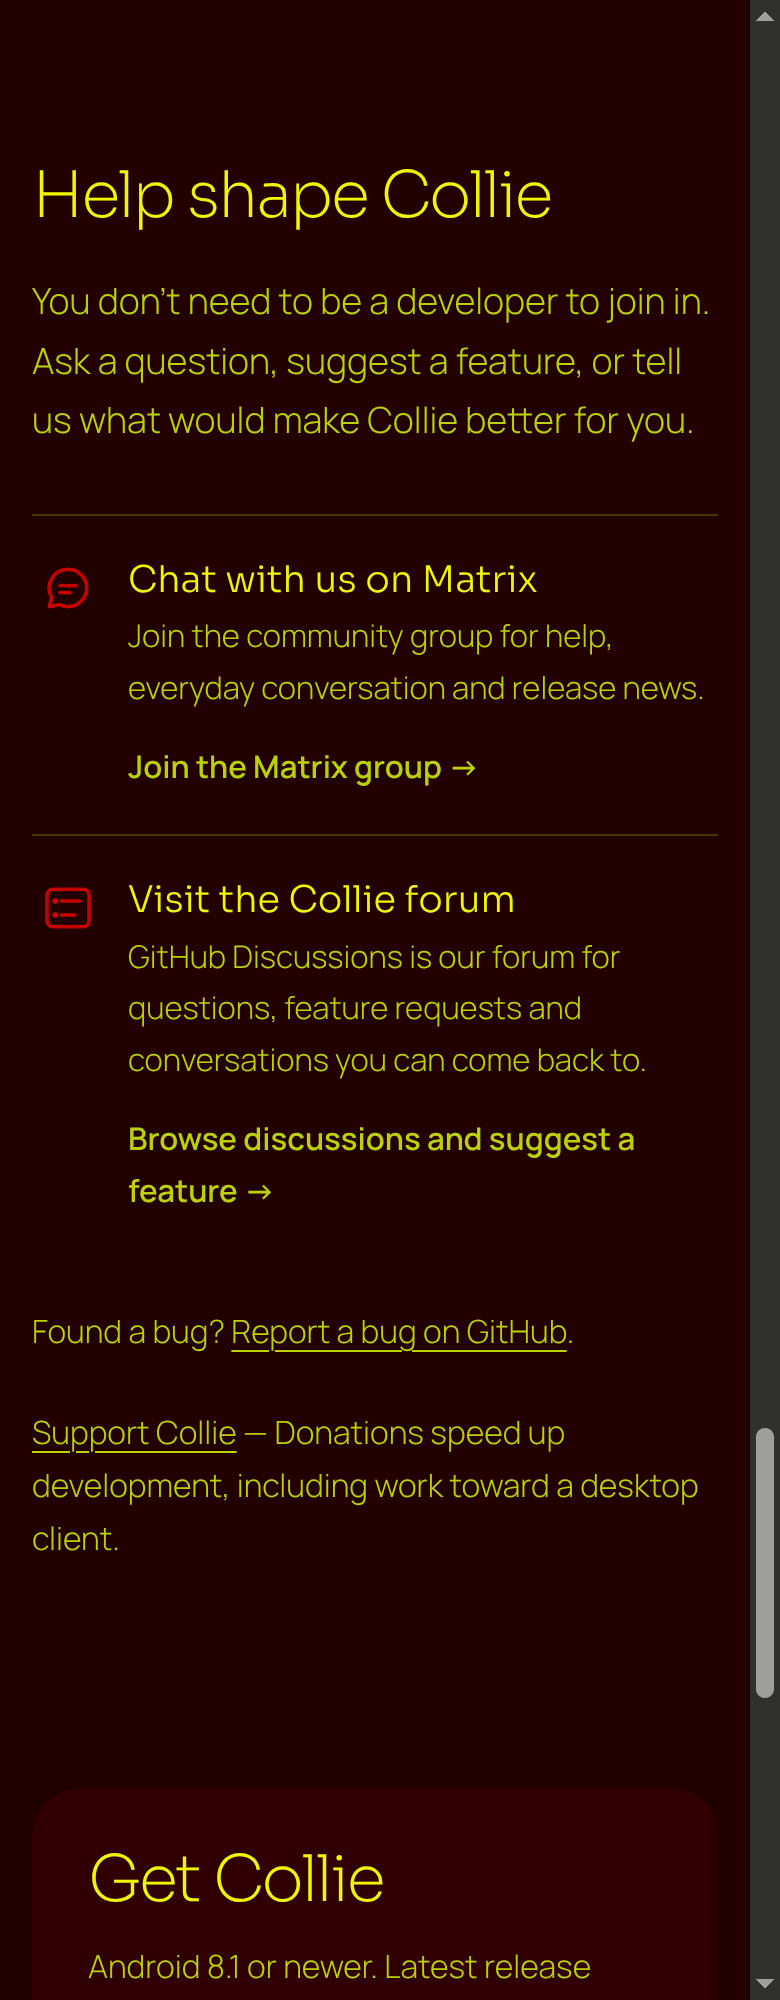
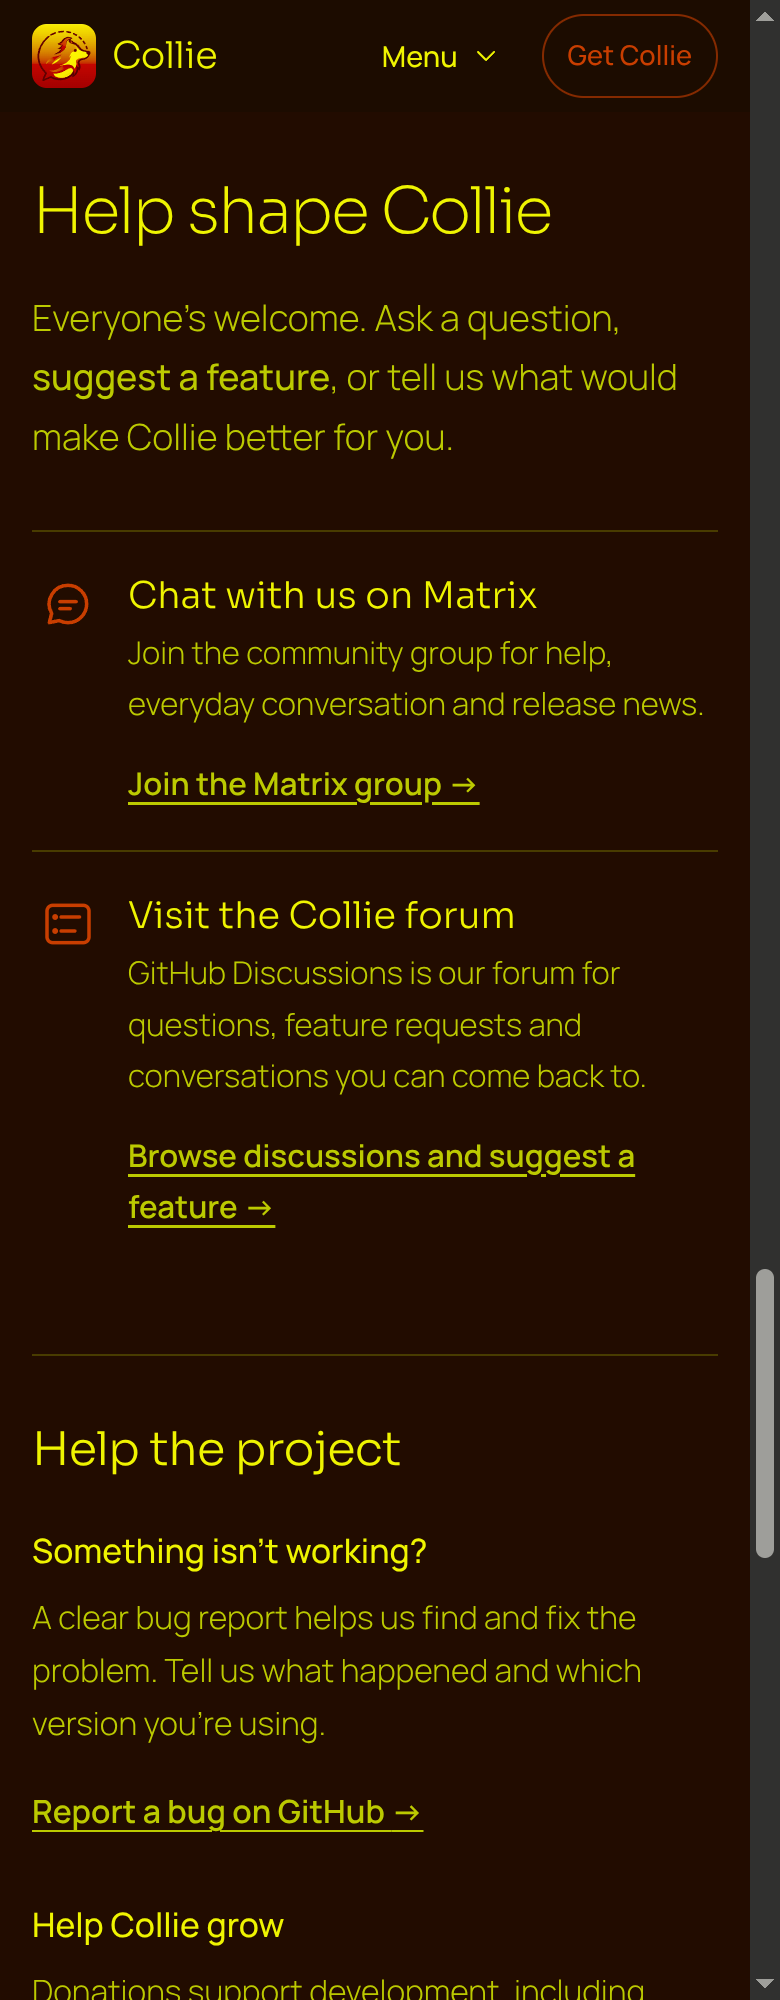
Record the final website review views and fresh capture provenance
Replace obsolete review pixels with current hero, feature, roadmap and menu screens. Include measured layout and contrast checks, native capture provenance and the compact independent-review context.

Layer: website

diff --git a/docs/screenshots/pr-95/README.md b/docs/screenshots/pr-95/README.md
@@ -1,0 +1,117 @@
+# Current Collie website review set
+
+These are actual T3 browser captures from the live static build at `http://localhost:8879/`, using an owned incognito tab. They replace the earlier images in this directory. Review the commit containing this document as one stable candidate; implementation source is `9e4cddf931c6`, with the fresh native assets in `555fff83a6b7e8f5b8de89f522859f250a166b5f`. No score is supplied by the implementation owner.
+
+## Start with these views
+
+| View | Screenshot | CSS viewport |
+| --- | --- | --- |
+| Hero and fresh encryption screen | [desktop-light.png](desktop-light.png) | 1280 × 800 |
+| Foreground phone on mobile | [mobile-light.png](mobile-light.png) | 390 × 844, scrolled to phones |
+| Compact feature grid | [features-desktop-light.png](features-desktop-light.png) | 1280 × 1000 |
+| Mobile features | [features-mobile-light.png](features-mobile-light.png) | 390 × 1100 |
+| Curated upcoming plans | [upcoming-desktop-light.png](upcoming-desktop-light.png) | 1280 × 900 |
+| Upcoming plans in dark mode | [upcoming-mobile-dark.png](upcoming-mobile-dark.png) | 390 × 1100 |
+| Persistent menu, closed | [menu-mobile-closed.png](menu-mobile-closed.png) | 390 × 844 |
+| Persistent menu, open | [menu-mobile-open.png](menu-mobile-open.png) | 390 × 844 |
+
+All captures use device pixel ratio 2; PNG dimensions are twice the CSS viewport dimensions. Supporting captures cover the consolidated introduction ([desktop](about-desktop.png), [mobile](about-mobile.png)), community ([desktop light](community-desktop-light.png), [mobile dark](community-mobile-dark.png), [320px dark](community-narrow-dark.png)), dark hero ([desktop](desktop-dark.png), [mobile phones](mobile-dark.png)), and the [actual Obtainium handoff](obtainium-desktop-light.png).
+
+The browser capture pipeline can shift orange into pink despite normal computed CSS colors; this discrepancy was observed in exported PNG pixels as well as the inline viewer. Do not adjust source colors to compensate. Layout, reading order, content, overlap and navigation remain assessable. The native PNG itself has the app's actual orange pixels. Contrast values below come from computed CSS, not color sampling of these browser images.
+
+## Product requirements to preserve
+
+Collie is an Android messenger for ordinary Signal users. Explain familiar messaging and extra protection on the phone; do not pitch readable patches as a benefit to everyone. Existing factual copy is mostly approved. People skim, so grouping, type hierarchy, emphasis and actionable labels should communicate the story before paragraph reading. Preserve the bark, lichen and orange identity, Manrope and Sora, real screenshots and the logo-derived dashed ring. Decorative radial-gradient blobs were explicitly rejected and removed.
+
+The introduction immediately below the hero consolidates Signal compatibility and Signal/Molly foundations. A text-only rearrangement and a competing provenance card did not satisfy the request for informational clarity. The current open composition puts its topic heading on the left, benefit first on the right, then quieter foundations and one optional source/security disclosure. Mobile follows that DOM order. Do not reintroduce Side by side, package-name, or one-account/two-app explanations. The legal disclaimer stays unchanged in the footer.
+
+Matrix chat and the GitHub Discussions forum remain prominent entry points, with different chat-bubble and thread-list icons. Their actions are underlined. Bug reports and donations remain in the separate Help the project group. Keep selective bold and italic emphasis. The notifications card must retain the exact link text “Why it matters and why we're working on making it easy.” pointing to `#upcoming`.
+
+Plans come from the existing `upcoming-planned-features` Discussions category, refreshed by daily builds, with label-priority items first. They must remain clearly labelled planned rather than shipped. The checked snapshot has ten discussions, eight in that category; no roadmap items were invented. Obtainium and the F-Droid repository have equal primary styling, with Recommended only on Obtainium. Manual APK download remains secondary. README uses the absolute Collie-hosted handoff; the website uses relative `obtainium/` so clicking the real CTA stays on the live build before publication. On the published domain it reaches the same destination. Preserve GitHub as the update source and `https://collie.im/#get` as the manual fallback. The verified nested-JSON APK filter is unchanged.
+
+## Changes in this candidate
+
+The roadmap renderer maps stable discussion numbers to concise display titles. Unknown titles retain their wording after removing editorial prefixes such as High Priority or bracketed tags. Escaping happens after display-title selection. A separate Priority badge comes only from the label, never title text. All eight discussion URLs are unchanged. Priority title weight is 600; ordinary plan titles are 500. The two-column grid reads across rows; mobile uses one column. The notifications introduction and italic planned-work disclaimer are unchanged. The gap from the roadmap follow-up links to the community heading is now 64 CSS px.
+
+The lead feature retains its desktop two-column/two-row position and featured surface. Its 40px icon sits beside the heading; the approved explanation remains. Three short facts restate that explanation: Passphrase you choose; Locks after a set time; Stays encrypted if lost or stolen. A hairline separates the facts, and their row sits at the bottom. Smaller cards use one deliberate icon-to-heading gap rather than stacked padding and automatic margins. Narrow screens use compact card and section spacing, with stacked facts.
+
+The narrow header is now a page-level sibling of the hero, so hero overflow cannot prevent persistent navigation. At 860px and below it is 56px high and sticky, with brand, Menu and Get Collie. Menu exposes the existing five section links in desktop order. Enter opens it; Escape closes it and returns focus; choosing a link or clicking outside closes it. Anchored sections have 56px scroll margin. The desktop header keeps its existing behavior. There is no menu animation to suppress in reduced-motion mode; existing reduced-motion rules also disable smooth scrolling and hero motion.
+
+## Relevant implementation excerpts
+
+```html
+<div class="site-header">
+  <header class="top shell">
+    <!-- Existing brand -->
+    <button class="menu-toggle" type="button" aria-expanded="false" aria-controls="section-menu">Menu <!-- SVG chevron --></button>
+    <nav id="section-menu" aria-label="Main">
+      <!-- Features, About Collie, Upcoming features, Community, Get Collie -->
+    </nav>
+    <a class="nav-get mobile-get" href="#get">Get Collie</a>
+  </header>
+</div>
+<!-- The hero starts after this page-level header. -->
+```
+
+```css
+.feature-head{display:flex;align-items:flex-start;gap:16px}
+.feature-head h3{max-width:17ch}
+.feature-facts{display:grid;grid-template-columns:repeat(3,minmax(0,1fr));gap:20px;margin-top:auto;padding-top:20px;border-top:1px solid var(--rule);font-size:.9rem;line-height:1.5;font-weight:500}
+.plan-badge{flex:none;padding:3px 9px;border-radius:999px;background:var(--soft);color:var(--bark);font:600 .75rem/1.5 Manrope,sans-serif}
+@media(max-width:860px){
+  html{scroll-padding-top:0}
+  main>section{scroll-margin-top:56px}
+  .site-header{position:sticky;top:0}
+  .top{position:relative;height:56px;padding-block:0;gap:12px}
+  .top nav{display:none}
+  .top nav.is-open{display:flex}
+}
+```
+
+The full narrow-menu rule positions the solid panel immediately below the header; it is not a fixed overlay. JavaScript updates `aria-expanded` and the `is-open` class together. Escape invokes the same close function and calls `toggle.focus()`.
+
+```python
+priority = is_priority(node)
+item_class = ' class="priority-plan"' if priority else ""
+badge = '<span class="plan-badge">Priority</span>' if priority else ""
+title = html.escape(display_roadmap_title(node))
+items.append(f'<li{item_class}>{badge}<a href="https://github.com/{repo}/discussions/{int(node["number"])}">{title}</a></li>')
+```
+
+## Measured browser checks
+
+| Actual CSS width | Horizontal overflow | Header | Downloads start, CSS px |
+| --- | --- | --- | --- |
+| 320 | none; document width 305 | 56px sticky | 6046.25 |
+| 390 | none; document width 375 | 56px sticky | 5420.30 |
+| 768 | none; document width 753 | 56px sticky | 4242.32 |
+| 1280 | none; document width 1265 | 90px normal | 3684.98 |
+
+These checks used actual `innerWidth`, not only the requested viewport setting. The narrower document widths reflect the vertical scrollbar. At 390px, downloads start 468.34px earlier than the previous 5888.64px. At 1280px the lead card is 408px tall, compared with 482.39px before this pass. Paragraph-to-facts space is 62.5px; the three lower-row heading tops all measure 1839.70px from the document top. At 390px the lead is 394px tall.
+
+Native keyboard Tab from the brand reached Menu, Enter changed `aria-expanded` to true, and Escape restored false with focus on Menu. Outside-click closing passed. Each of the five actual menu links was clicked at both 390px and 768px. Every menu closed, and all headings landed below the header: heading tops ranged from 88.01px to 134.22px, with the header bottom at 56px. These position checks temporarily used automatic scrolling in the owned test tab to avoid measuring a smooth-scroll midpoint; source motion rules were unchanged.
+
+Selected computed CSS contrast ratios were measured with the WCAG sRGB luminance formula. Light mode: badge 14.20:1, menu links 15.69:1, lead facts 14.20:1. Dark mode: badge 14.20:1, menu links 16.55:1, lead facts 8.01:1. These are checks of the new elements, not a whole-site automated contrast audit. The Impeccable detector used a degraded regex fallback because parser modules are unavailable. Its retained warning is the existing 3px curved hero boundary; no clean automated audit is claimed.
+
+Clicking Add to Obtainium originally left localhost for the undeployed absolute route and showed GitHub Pages' not-found page. After making the website link relative, clicking that same CTA opened `http://localhost:8879/obtainium/`; the page text, Open Obtainium URI, download link and manual homepage fallback were read. Actual Obtainium installation/import on a phone was not performed.
+
+## Fresh native image evidence
+
+The [Fastlane PNG](../../../fastlane/metadata/android/en-US/images/phoneScreenshots/3.png) and [website WebP](../../site/assets/screens/encryption.webp) now come from the same newly captured API 35 screen. The old branch Fastlane image was visibly stale: its title overlapped the camera area and its content sat high. Merely moving an existing image to the front did not correct that file. See [encryption-capture.md](encryption-capture.md) for commands, source, hashes and security restoration.
+
+The fresh PNG is 1080×2400; WebP is 540×1200. In the actual user-visible screen, the title's view begins at y578, well below the 128px status-bar inset. The final button ends at y1887, above the 63px navigation inset. Therefore free space is exactly 450px above and below. Title, lock circle, body and both controls are visibly centered and unobscured. The browser's loaded `currentSrc` and no-store fetch match the new WebP hash. Encryption remains the foreground hero phone, lock is left and proxy is right. No conversation image was fabricated.
+
+## Validation and reproduction
+
+```sh
+python3 tooling/site/build.py --out /home/x/agent-scratch/collieim-android/pr-screenshots/site --tag v8.35.1-3-rc2 --roadmap-json /home/x/agent-scratch/collieim-android/pr-screenshots/roadmap-nodes.json
+python3 -m unittest discover -s tooling/site -p test_build.py
+```
+
+Fourteen website tests pass, including five added checks for stable mappings, prefix cleaning, mapped-title escaping, unknown-title preservation and label-only badges. Existing category, ordering, injection, pagination, failure, safe-path and Obtainium checks remain. `git diff --check` passes. The actual native centering method passed without skip, and the screen-security restoration fixture passed. Temporary app test helpers, generated Android build directories, the dedicated emulator and its AVD were removed after evidence collection. The live Python preview remains running by request.
+
+## Remaining review questions
+
+Mobile hero length remains deliberately outside this pass: its copy appears before the phones, so the fresh image is below the first fold on narrow screens. Community remains lower in the page but has hero and persistent-menu entry points. Six feature cards remain the established topology. The notifications explanation is technical because it states real setup requirements, and the user asked to preserve that paragraph. No real conversation capture was supplied. Review these as honest remaining design tradeoffs; do not infer approval from passing tests or from this implementation note.
+
+Impeccable 4.1.1 was already installed for Codex under `~/.agents/skills/impeccable`. Its context, layout and craft-floor guidance was used. Canonical documentation confirms that path and `$impeccable`; nothing was installed or downloaded. Source, imagery and behavior are ready for independent review at the containing commit.

diff --git a/docs/screenshots/pr-95/encryption-capture.md b/docs/screenshots/pr-95/encryption-capture.md
@@ -1,0 +1,70 @@
+# Fresh database-encryption capture
+
+The native Android app sources are unchanged from `02c414c19ae686451de85bd4f46cc9d3209f4c5c`, which contains PR 86's `85779e109803` system-bar and centering fix. Website-only changes do not alter that native source. Both app and instrumentation APKs were assembled together from this worktree using the cached SDK, JDK 21 and Gradle dependencies:
+
+```sh
+agent-heavy --mem 16G -- env JAVA_HOME=/var/home/x/.local/opt/jdk-21.0.13+9 ANDROID_HOME=/var/home/x/Android/Sdk ANDROID_SDK_ROOT=/var/home/x/Android/Sdk GRADLE_USER_HOME=/var/home/x/.gradle ./gradlew --offline --no-daemon --build-cache --console=plain --max-workers=6 -Dorg.gradle.jvmargs="-Xmx6g -Xms256m -XX:MaxMetaspaceSize=1g" -Pkotlin.daemon.jvmargs=-Xmx2g :app:assembleProdWebsiteDebug :app:assembleProdWebsiteDebugAndroidTest
+```
+
+Execution used the host bridge with the explicit host-mapped worktree directory. The dedicated Pixel 6 API 35 emulator ran headlessly on `emulator-5562` under a 6G resource job; `emulator-5554` belonged to another task and was untouched.
+
+APK SHA-256 values:
+
[2 lines of base64/hex data omitted]
+
+The following method ran on the matching pair and returned `OK (1 test)`, with no assumption skip:
+
+```sh
+adb -s emulator-5562 shell am instrument -w -r -e class org.thoughtcrime.securesms.SystemBarClearanceTest#databaseEncryptionScreenClearsStatusBarAndCentersContent im.collie.app.test/org.thoughtcrime.securesms.testing.SignalTestRunner
+```
+
+Direct instrumentation launches initially left an alpha-zero starting-reveal layer despite WMS focus. Black captures and unrelated emulator launcher/SystemUI/Messages ANR overlays were rejected. A SurfaceFlinger inspection identified the presentation problem; it was not treated as proof of a secure-capture API defect. The successful capture opened the normal production activity outside instrumentation, after dismissing unrelated emulator ANRs. The API 35 debug emulator's root shell launched the non-exported activity; no host privilege or production account was used. The emulator was offline during this path.
+
+A temporary instrumentation fixture set screen security false before normal launch and true afterward. Its exact fixture body was:
+
+```kotlin
+package org.thoughtcrime.securesms
+
+import org.junit.Assert.assertFalse
+import org.junit.Assert.assertTrue
+import org.junit.Test
+import org.thoughtcrime.securesms.keyvalue.SignalStore
+
+class FreshScreenSecurityTest {
+  @Test fun disableOnlyForCapture() {
+    SignalStore.settings.isScreenSecurityEnabled = false
+    assertFalse(SignalStore.settings.isScreenSecurityEnabled)
+  }
+  @Test fun restoreAfterCapture() {
+    SignalStore.settings.isScreenSecurityEnabled = true
+    assertTrue(SignalStore.settings.isScreenSecurityEnabled)
+  }
+}
+```
+
[1 lines of base64/hex data omitted]
+
+```sh
+adb -s emulator-5562 shell am instrument -w -r -e class org.thoughtcrime.securesms.FreshScreenSecurityTest#disableOnlyForCapture im.collie.app.test/org.thoughtcrime.securesms.testing.SignalTestRunner
+adb -s emulator-5562 root
+adb -s emulator-5562 shell am start -W -n im.collie.app/org.thoughtcrime.securesms.PassphraseCreateActivity
+adb -s emulator-5562 exec-out screencap -p > fresh-encryption-api35.png
+adb -s emulator-5562 shell am instrument -w -r -e class org.thoughtcrime.securesms.FreshScreenSecurityTest#restoreAfterCapture im.collie.app.test/org.thoughtcrime.securesms.testing.SignalTestRunner
+```
+
+The actual focused setup window was visible and ready for display without SECURE during capture. A subsequent normal launch after restoration reported SECURE in the window flags. A native UI dump showed title `[0,578][1080,697]`, body `[0,1249][1080,1477]`, primary button `[234,1624][845,1740]` and No thanks `[391,1782][689,1887]`. With top/bottom system insets 128/63, free space is 450px on each side of the content. The PNG was visually inspected before replacing either asset.
+
+Both assets were derived from that same fresh 06:53 capture:
+
+```sh
+cp fresh-encryption-api35.png fastlane/metadata/android/en-US/images/phoneScreenshots/3.png
+cwebp -q 82 -resize 540 0 fresh-encryption-api35.png -o docs/site/assets/screens/encryption.webp
+```
+
[2 lines of base64/hex data omitted]
+
+The immutable asset commit is signed `555fff83a6b7e8f5b8de89f522859f250a166b5f`, pushed without force to [PR 95](https://github.com/0cwa/collieim-android/pull/95). Browser `currentSrc`, loaded 540×1200 dimensions, no-store fetched bytes and actual hero rendering were checked. Local main separately received exactly these two blobs in signed `bf7e386100905d5c5c03bb2f22cff480c647ebe4`; main was not pushed, and unrelated `.local/` and `tools/` were preserved. This supersedes the earlier local-main images from `6d02965ccb86`.
+
+Temporary app test sources were removed after saving exact text evidence in the task scratch directory. The emulator and its AVD, generated Android build/cache directories, and unusable diagnostic images were removed. SDK, JDK and shared dependency caches were reused and retained. No native app-code change is included in this website PR.
